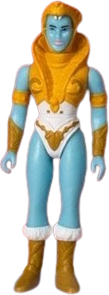
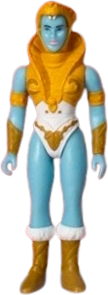
Photos: TEELA (SHIVA) (super7-cl-rea-030)

diff --git a/photos.js b/photos.js
@@ -1400,8 +1400,8 @@ window.MOTU_PHOTOS = {
   "images": [
    "img/characters/super7-cl-rea-030-1.webp?v=pr1y7b"
   ],
-  "preview": "img/characters/super7-cl-rea-030-shelf.png?v=pr1y7b",
-  "thumb": "img/characters/super7-cl-rea-030-thumb.webp?v=pr1y7b"
+  "preview": "img/characters/super7-cl-rea-030-shelf.png?v=psa91x",
+  "thumb": "img/characters/super7-cl-rea-030-thumb.webp?v=psa91x"
  },
  "super7-cl-rea-015": {
   "images": [
